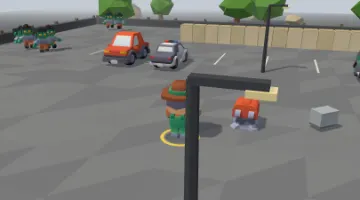
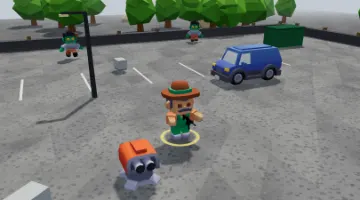
Dernier Rempart : des graphismes plus vivants (Lot 3)
- rendu tonal de cinéma (ACES) et ombres aux bords doux
- le sol : une texture de détail sans raccord (grains, grandes taches) sur les facettes
- le tir : un éclair au bout du canon (plus gros pour les pompes, fusils de précision
  et lanceurs ; rose pour les armes à énergie) et une lumière qui éclaire autour ;
  la traçante part du canon ; la tourelle a son éclair
- les impacts : des étincelles et des gouttes (au plus 10 impacts par image)
- les explosions : onde de choc au sol, fumée qui monte et grossit, braises, débris,
  flash de lumière
- un éclair ou un flash tout neuf reste visible au moins une image (même à 8 i/s)
- la qualité automatique : la résolution baisse si les images tardent, remonte si
  tout file ; les lumières d'effets sont retirées en graphismes économes
- la caméra de jeu un peu plus près ; vignettes des arènes refaites

Claude-Session: https://claude.ai/code/session_0198Qgb4Q8omdd1L3F2NjW4L

diff --git a/zombies/index.html b/zombies/index.html
@@ -4048,7 +4048,8 @@ const ZRENDU = (() => {
     try { renderer = new T.WebGLRenderer({ canvas, antialias: true, powerPreference: 'high-performance' }); }
     catch (e) { return null; }
     renderer.setPixelRatio(Math.min(window.devicePixelRatio || 1, qualite === 'eco' ? 1.25 : 2));
-    renderer.shadowMap.enabled = qualite !== 'eco'; renderer.shadowMap.type = T.PCFShadowMap;
+    renderer.shadowMap.enabled = qualite !== 'eco'; renderer.shadowMap.type = T.PCFSoftShadowMap; // (des ombres aux bords doux)
+    renderer.toneMapping = T.ACESFilmicToneMapping; renderer.toneMappingExposure = 1.22; // (un rendu tonal de cinéma : les lumières vives restent lisibles, les flashs ne brûlent pas l'image)
     const scene = new T.Scene();
     const camera = new T.PerspectiveCamera(38, 1, 0.5, 160);
     const hemi = new T.HemisphereLight('#FFFFFF', '#6E7F52', 1.15); scene.add(hemi);
@@ -4531,17 +4532,17 @@ const ZRENDU = (() => {
     const matTrace = new T.MeshBasicMaterial({ color: '#FFE89A', transparent: true, opacity: 0.9, depthWrite: false, blending: T.AdditiveBlending });
     const tracantes = []; for (let i = 0; i < MAX_TRACANTES; i++) { const m = new T.Mesh(BOITE, matTrace.clone()); m.visible = false; scene.add(m); tracantes.push({ m, t: 0 }); }
     let iTrace = 0;
-    function tracante(x, z, a, l, arme) {
+    function tracante(x, z, a, l, arme, y0) {
       const o = tracantes[iTrace]; iTrace = (iTrace + 1) % MAX_TRACANTES;
       const gros = arme === 'sniper' || arme === 'laser', ep = arme === 'laser' ? 0.11 : gros ? 0.07 : 0.045;
       o.t = gros ? 0.12 : 0.06; o.m.visible = true;
-      o.m.position.set(x + Math.cos(a) * l / 2, 1.0, z + Math.sin(a) * l / 2); o.m.rotation.set(0, -a, 0);
+      o.m.position.set(x + Math.cos(a) * l / 2, y0 != null ? (y0 + 1.0) / 2 : 1.0, z + Math.sin(a) * l / 2); o.m.rotation.set(0, -a, 0);
       o.m.scale.set(l, ep, ep); o.m.material.opacity = 0.95;
       o.m.material.color.set(COULEUR_TRACE[arme] || '#FFE89A');
     }
     // l'effet d'un tir, selon l'arme : traçante, rayon laser, cône de flammes ou de givre, éclair (lignes brisées), rien (roquette, scie : le projectile se voit)
     const COULEUR_TRACE = { tourelle: '#9AE6FF', laser: '#FF5C8A', sniper: '#FFE89A', arc: '#E8D2A6' };
-    function effetTir(e) {
+    function effetTir(e, bc) {
       const A = D.ARMES[e.cle];
       if (e.arme === 'flamme' || e.arme === 'cryo') {
         const feu = e.arme === 'flamme';
@@ -4551,6 +4552,7 @@ const ZRENDU = (() => {
       if (e.arme === 'tesla') { if (e.pts) eclair(e.pts); return; }
       if (e.arme === 'roquette' || e.arme === 'scie' || e.arme === 'acide') return;
       const cle = e.cle === 'tourelle' ? 'tourelle' : A && A.classe === 'laser' ? 'laser' : e.arme;
+      if (bc) { const fx = e.x + Math.cos(e.a) * e.l, fz = e.z + Math.sin(e.a) * e.l, l = Math.hypot(fx - bc.x, fz - bc.z); if (l > 0.3) { tracante(bc.x, bc.z, Math.atan2(fz - bc.z, fx - bc.x), l, cle, bc.y); return; } } // (depuis le bout du canon)
       tracante(e.x, e.z, e.a, e.l, cle);
     }
     // les éclairs : des segments brisés, en boîtes fines additives (les lignes WebGL n'ont qu'un pixel)
@@ -4593,7 +4595,43 @@ const ZRENDU = (() => {
     const geoBoum = new T.IcosahedronGeometry(1, 1);
     const boums = []; for (let i = 0; i < MAX_BOUMS; i++) { const m = new T.Mesh(geoBoum, matBoum.clone()); m.visible = false; scene.add(m); boums.push({ m, t: 0, r: 1 }); }
     let iBoum = 0;
-    function boum(x, z, r, petite) { const o = boums[iBoum]; iBoum = (iBoum + 1) % MAX_BOUMS; o.t = 0.45; o.r = r; o.m.position.set(x, 0.4, z); o.m.visible = true; secousse = Math.max(secousse, petite ? 0.08 : 0.35); }
+    function boum(x, z, r, petite) {
+      const o = boums[iBoum]; iBoum = (iBoum + 1) % MAX_BOUMS; o.t = 0.45; o.r = r; o.m.position.set(x, 0.4, z); o.m.visible = true; secousse = Math.max(secousse, petite ? 0.08 : 0.35);
+      // l'explosion en entier : l'onde de choc au sol, la fumée qui monte, des braises et des débris, un flash qui éclaire tout autour
+      onde(x, z, r * (petite ? 0.8 : 1.25));
+      for (let k = 0; k < (petite ? 2 : 7); k++) { const a = Math.random() * 6.28, d = Math.random() * r * 0.5; fumee(x + Math.cos(a) * d, 0.5 + Math.random() * 0.6, z + Math.sin(a) * d, r * (0.55 + Math.random() * 0.4), petite ? 0.9 : 1.6 + Math.random() * 0.8, k < 2 && !petite ? '#3A3430' : '#6E6862'); }
+      for (let k = 0; k < (petite ? 5 : 12); k++) { const a = Math.random() * 6.28, v = 3 + Math.random() * 5; particule(x, 0.6, z, Math.cos(a) * v, 3 + Math.random() * 6, Math.sin(a) * v, 0.5 + Math.random() * 0.5, 0.09, k % 3 ? '#FFB347' : '#FFE07A', 0.2); }
+      if (!petite) for (let k = 0; k < 7; k++) { const a = Math.random() * 6.28, v = 2 + Math.random() * 4; particule(x, 0.4, z, Math.cos(a) * v, 4 + Math.random() * 5, Math.sin(a) * v, 1.1 + Math.random() * 0.6, 0.13, '#2E2A26', 0.35); }
+      lumiere(x, 1.4, z, '#FF9A3A', petite ? 14 : 34, r * 4 + 6, 0.32);
+    }
+    // ─── les effets de la 3D (Lot 3) : éclairs au bout du canon et lumières, ondes de choc, fumée, étincelles ───
+    // une texture faite au pinceau dans un canvas : une étoile de feu (l'éclair du canon), un rond doux (la fumée)
+    function texture2D(dessin, n) { const c = document.createElement('canvas'); c.width = c.height = n || 64; dessin(c.getContext('2d'), c.width); const t = new T.CanvasTexture(c); if ('colorSpace' in t) t.colorSpace = T.SRGBColorSpace; return t; }
+    const texEclat = texture2D((g, n) => { const m = n / 2, gr = g.createRadialGradient(m, m, 0, m, m, m); gr.addColorStop(0, 'rgba(255,255,240,1)'); gr.addColorStop(0.25, 'rgba(255,220,130,.9)'); gr.addColorStop(1, 'rgba(255,140,40,0)'); g.fillStyle = gr; g.beginPath(); for (let k = 0; k < 16; k++) { const a = k / 16 * Math.PI * 2, r = k % 2 ? m * 0.32 : m; g.lineTo(m + Math.cos(a) * r, m + Math.sin(a) * r); } g.fill(); });
+    const texFumee = texture2D((g, n) => { const m = n / 2, gr = g.createRadialGradient(m, m, 0, m, m, m); gr.addColorStop(0, 'rgba(255,255,255,.9)'); gr.addColorStop(0.55, 'rgba(255,255,255,.45)'); gr.addColorStop(1, 'rgba(255,255,255,0)'); g.fillStyle = gr; g.fillRect(0, 0, n, n); });
+    const eclats = []; for (let i = 0; i < 10; i++) { const sp = new T.Sprite(new T.SpriteMaterial({ map: texEclat, color: '#FFE2A0', blending: T.AdditiveBlending, depthWrite: false, transparent: true, fog: false })); sp.visible = false; scene.add(sp); eclats.push({ sp, t: 0 }); }
+    let iEclat = 0;
+    function eclatBouche(p, taille, couleur) { const o = eclats[iEclat]; iEclat = (iEclat + 1) % eclats.length; o.sp.position.copy(p); const k = taille * (0.8 + Math.random() * 0.5); o.sp.scale.set(k, k, k); o.sp.material.rotation = Math.random() * 6.28; o.sp.material.color.set(couleur || '#FFE2A0'); o.sp.material.opacity = 1; o.t = 0.06; o.neuf = true; o.sp.visible = true; }
+    // des lumières en réserve (toujours dans la scène, éteintes : en ajouter recompilerait les matériaux) : le canon, l'explosion
+    const lumieres = []; for (let i = 0; i < 2; i++) { const l = new T.PointLight('#FFC870', 0, 8, 1.6); l.visible = qualite !== 'eco'; scene.add(l); lumieres.push({ l, t: 0, d: 1, i0: 0 }); } // (en économe : retirées des calculs de lumière)
+    let iLum = 0;
+    function lumiere(x, y, z, couleur, intensite, portee, duree) { if (qualite === 'eco') return; const o = lumieres[iLum]; iLum = (iLum + 1) % lumieres.length; o.l.position.set(x, y, z); o.l.color.set(couleur); o.l.distance = portee; o.i0 = intensite; o.l.intensity = intensite; o.t = o.d = duree; o.neuf = true; }
+    const fumees = []; for (let i = 0; i < 40; i++) { const sp = new T.Sprite(new T.SpriteMaterial({ map: texFumee, color: '#777', transparent: true, depthWrite: false, opacity: 0 })); sp.visible = false; scene.add(sp); fumees.push({ sp, t: 0, vie: 1, k: 1 }); }
+    let iFumee = 0;
+    function fumee(x, y, z, k, vie, couleur) { const o = fumees[iFumee]; iFumee = (iFumee + 1) % fumees.length; o.sp.position.set(x, y, z); o.k = k; o.t = 0; o.vie = vie; o.vx = (Math.random() - 0.5) * 0.6; o.vz = (Math.random() - 0.5) * 0.6; o.sp.material.color.set(couleur); o.sp.material.rotation = Math.random() * 6.28; o.sp.visible = true; }
+    const ondes = []; for (let i = 0; i < 6; i++) { const m = new T.Mesh(new T.RingGeometry(0.82, 1, 28).rotateX(-Math.PI / 2), new T.MeshBasicMaterial({ color: '#FFD08A', transparent: true, opacity: 0, depthWrite: false, blending: T.AdditiveBlending, fog: false })); m.visible = false; scene.add(m); ondes.push({ m, t: 0, r: 1 }); }
+    let iOnde = 0;
+    function onde(x, z, r) { const o = ondes[iOnde]; iOnde = (iOnde + 1) % ondes.length; o.m.position.set(x, 0.06, z); o.r = r; o.t = 0; o.m.visible = true; }
+    function majEffets(dt) {
+      // (un éclair ou un flash tout neuf est montré au moins une image entière, même quand les images sont lentes)
+      for (const o of eclats) if (o.sp.visible) { if (o.neuf) { o.neuf = false; continue; } o.t -= dt; o.sp.material.opacity = Math.max(0, o.t / 0.06); if (o.t <= 0) o.sp.visible = false; }
+      for (const o of lumieres) if (o.t > 0) { if (o.neuf) { o.neuf = false; continue; } o.t -= dt; o.l.intensity = o.t > 0 ? o.i0 * (o.t / o.d) : 0; }
+      for (const o of fumees) if (o.sp.visible) { o.t += dt; const u = o.t / o.vie; if (u >= 1) { o.sp.visible = false; continue; } o.sp.position.y += dt * 1.1 * (1 - u * 0.5); o.sp.position.x += o.vx * dt; o.sp.position.z += o.vz * dt; const k = o.k * (1 + u * 1.6); o.sp.scale.set(k, k, k); o.sp.material.opacity = 0.62 * (u < 0.12 ? u / 0.12 : 1 - (u - 0.12) / 0.88); o.sp.material.rotation += dt * 0.4; }
+      for (const o of ondes) if (o.m.visible) { o.t += dt; const u = o.t / 0.38; if (u >= 1) { o.m.visible = false; continue; } const k = o.r * (0.25 + u * 1.2); o.m.scale.set(k, 1, k); o.m.material.opacity = 0.85 * (1 - u); }
+    }
+    // le bout du canon d'un survivant (le modèle de son arme : sa demi-longueur devant son centre), en coordonnées du monde
+    const _bout = new T.Vector3();
+    function boutCanon(s) { if (!s || !s.blaster || !s.blaster.userData.long) return null; s.blaster.updateWorldMatrix(true, false); return s.blaster.localToWorld(_bout.set(0, 0, s.blaster.userData.long / 2)); }
     // les flaques (sang vert des zombies, acide des crachats, traces de brûlé) : un cercle instancié, en anneau
     const flaques = new T.InstancedMesh(new T.CircleGeometry(0.5, 9).rotateX(-Math.PI / 2), new T.MeshLambertMaterial({ color: '#FFFFFF', polygonOffset: true, polygonOffsetFactor: -2, polygonOffsetUnits: -2, depthWrite: false, transparent: true, opacity: 0.85 }), MAX_FLAQUES);
     flaques.frustumCulled = false; flaques.receiveShadow = true; flaques.count = 0; flaques.instanceMatrix.setUsage(T.DynamicDrawUsage); flaques.setColorAt(0, BLANC); scene.add(flaques);
@@ -4645,7 +4683,8 @@ const ZRENDU = (() => {
         for (let j = 0; j < 3; j++) { cc[(i + j) * 3] = tmp.r; cc[(i + j) * 3 + 1] = tmp.g; cc[(i + j) * 3 + 2] = tmp.b; }
       }
       gsol.setAttribute('color', new T.BufferAttribute(cc, 3)); gsol.computeVertexNormals();
-      const sol = new T.Mesh(gsol, new T.MeshLambertMaterial({ vertexColors: true })); sol.receiveShadow = true; scene.add(sol); enArene.push(sol);
+      texSol.repeat.set(cote / 6, cote / 6);
+      const sol = new T.Mesh(gsol, new T.MeshLambertMaterial({ vertexColors: true, map: texSol })); sol.receiveShadow = true; scene.add(sol); enArene.push(sol);
       // la bordure (une haie de bois et de pierre), les obstacles, et le paysage autour (arbres, rochers ; sans collision)
       const F = new Fab();
       const bordure = (x, z, w, d) => F.add(BOITE, A.bord, mat(x, 0.45, z, 0, w, 0.9, d), 0.06, 11);
@@ -4702,6 +4741,16 @@ const ZRENDU = (() => {
     let vit = 0, vitVoulu = 0, vitX = 0.5, vitY = 0.55, vitDist = 1, vitAz = Math.atan2(9.4, 3.2); // (vitAz : d'où la vitrine filme)
     const _cn = T ? new T.Vector3() : null, _cv = T ? new T.Vector3() : null, _vn = T ? new T.Vector3() : null, _vv = T ? new T.Vector3() : null;
     function vitrine(on, x, y, dist) { vitVoulu = on ? 1 : 0; if (x != null) vitX = x; if (y != null) vitY = y; if (dist != null) vitDist = dist; }
+    // la texture de détail du sol : des grains et de grandes taches douces (sans raccord visible : chaque tache est aussi dessinée de l'autre
+    // côté du bord), qui multiplie les couleurs des facettes
+    const texSol = (() => {
+      const n = 256, c = document.createElement('canvas'); c.width = c.height = n; const g = c.getContext('2d'); g.fillStyle = '#fff'; g.fillRect(0, 0, n, n);
+      let graine = 7; const rnd = () => (graine = (graine * 16807) % 2147483647) / 2147483647;
+      const partout = (f) => { for (const dx of [-n, 0, n]) for (const dy of [-n, 0, n]) f(dx, dy); };
+      for (let i = 0; i < 16; i++) { const x = rnd() * n, y = rnd() * n, r = 24 + rnd() * 44, fonce = rnd() < 0.55; partout((dx, dy) => { const gr = g.createRadialGradient(x + dx, y + dy, 0, x + dx, y + dy, r); gr.addColorStop(0, fonce ? 'rgba(0,0,0,.09)' : 'rgba(255,255,255,.1)'); gr.addColorStop(1, 'rgba(0,0,0,0)'); g.fillStyle = gr; g.fillRect(x + dx - r, y + dy - r, r * 2, r * 2); }); }
+      for (let i = 0; i < 2200; i++) { const v = (200 + rnd() * 55) | 0, x = rnd() * n, y = rnd() * n, r = 0.8 + rnd() * 2.6, e = 0.4 + rnd() * 0.6, a = rnd() * 3; g.fillStyle = `rgb(${v},${v},${v})`; partout((dx, dy) => { g.beginPath(); g.ellipse(x + dx, y + dy, r, r * e, a, 0, 7); g.fill(); }); }
+      const t = new T.CanvasTexture(c); t.wrapS = t.wrapT = T.RepeatWrapping; if ('colorSpace' in t) t.colorSpace = T.SRGBColorSpace; t.anisotropy = 4; return t;
+    })();
     const AUTOUR = { foret: 'sapins', neon: 'immeubles', volcan: 'roches', supermarche: 'murs', port: 'eau', plage: 'eau', cimetiere: 'sapins' };
     const HERBE = new Set(['jardin', 'ferme', 'cimetiere', 'foret']);
     const matLave = new T.MeshBasicMaterial({ color: '#FF6A1A' });
@@ -4710,7 +4759,7 @@ const ZRENDU = (() => {
       const tx = j.x + (j.vx || 0) * 0.25, tz = j.z + (j.vz || 0) * 0.25;
       if (!cam.init) { cam.x = tx; cam.z = tz; cam.init = true; }
       const k = 1 - Math.exp(-6 * dt); cam.x += (tx - cam.x) * k; cam.z += (tz - cam.z) * k;
-      const portrait = H > W; let haut = portrait ? 30 : 22, recul = portrait ? 12 : 12, fx = cam.x, fz = cam.z;
+      const portrait = H > W; let haut = portrait ? 30 : 20.5, recul = portrait ? 12 : 11.2, fx = cam.x, fz = cam.z; // (en paysage, un peu plus près qu'avant : 22 et 12)
       if (cine) { // plongée : la caméra descend vers le point, puis remonte (courbe en cloche)
         cine.t += dt; const u = Math.min(1, cine.t / cine.duree), w = Math.sin(u * Math.PI);
         fx = cam.x + (cine.x - cam.x) * w; fz = cam.z + (cine.z - cam.z) * w; haut -= 11 * w; recul -= 5 * w;
@@ -4735,12 +4784,19 @@ const ZRENDU = (() => {
 
     // ─── une image ───
     let derniereT = 0;
+    let impacts = 0;
     function image(jeu, idMoi, dt, evs) {
+      impacts = 0; ajusterQualite();
       if (!arene || arene !== jeu.A) charger(jeu);
       if (evs) for (const e of evs) {
         switch (e.t) {
           case 'tir': {
-            effetTir(e); const s = survivants.get(e.de);
+            const s = survivants.get(e.de), bc = boutCanon(s), A0 = D.ARMES[e.cle];
+            if (bc && e.arme !== 'flamme' && e.arme !== 'cryo' && e.arme !== 'tesla' && e.arme !== 'scie') { // (l'éclair du canon, et sa lumière une fois sur deux)
+              const gros = A0 && (A0.famille === 'pompe' || A0.famille === 'sniper' || A0.famille === 'lanceur'), laser = A0 && A0.famille === 'energie';
+              eclatBouche(bc, gros ? 1.2 : 0.8, laser ? '#FF9AC0' : '#FFE2A0'); if (gros || Math.random() < 0.5) lumiere(bc.x, bc.y, bc.z, laser ? '#FF6FA0' : '#FFC870', gros ? 9 : 5, 6, 0.07);
+            } else if (e.cle === 'tourelle') eclatBouche(_bout.set(e.x + Math.cos(e.a) * 0.6, 1.05, e.z + Math.sin(e.a) * 0.6), 0.55, '#BFEFFF');
+            effetTir(e, bc);
             if (s) { s.recul = 1; if (!e.b) { const a = e.a + Math.PI / 2 * (Math.random() < 0.5 ? 1 : -1) * 0.9; particule(e.x, 1.0, e.z, Math.cos(a) * 2.5, 2.5 + Math.random() * 1.5, Math.sin(a) * 2.5, 1.3, 0.07, '#E0B040', 0.4); } } // une douille
             break;
           }
@@ -4750,7 +4806,10 @@ const ZRENDU = (() => {
             if (KZ && !D.ZOMBIES[e.type].boss && (e.fort || Math.random() < 0.45)) eclater(e); // en morceaux
             else { corps.push({ type: e.type, x: e.x, z: e.z, a: e.a || 0, t: 0 }); if (corps.length > MAX_CORPS) corps.shift(); }
             break;
-          case 'touche': if (Math.random() < 0.25) flaque(e.x + (Math.random() - 0.5) * 0.6, e.z + (Math.random() - 0.5) * 0.6, 0.35, '#6F9A38'); break;
+          case 'touche':
+            if (Math.random() < 0.25) flaque(e.x + (Math.random() - 0.5) * 0.6, e.z + (Math.random() - 0.5) * 0.6, 0.35, '#6F9A38');
+            if (!e.petit && impacts++ < 10) { for (let k = 0; k < (e.crit ? 5 : 2); k++) particule(e.x, 1.0, e.z, (Math.random() - 0.5) * 5, 1.5 + Math.random() * 2.5, (Math.random() - 0.5) * 5, 0.22, 0.06, k % 2 ? '#FFF3C0' : '#FFD25A', 0); particule(e.x, 1.0, e.z, (Math.random() - 0.5) * 3, 2 + Math.random() * 2, (Math.random() - 0.5) * 3, 0.5, 0.09, '#6F9A38', 0.1); } // (étincelles et gouttes ; au plus 10 impacts par image)
+            break;
           case 'boum': boum(e.x, e.z, e.r, e.petite); if (!e.petite) flaque(e.x, e.z, e.r * 0.55, '#4A4A3A'); break;
           case 'flaque': flaque(e.x, e.z, 0.7, '#A6D63A'); break;
           case 'blesse': secousse = Math.max(secousse, 0.18); break;
@@ -4782,6 +4841,7 @@ const ZRENDU = (() => {
       majAlertes(dt);
       majFlaques(dt);
       majParticules(dt);
+      majEffets(dt);
       for (const o of tracantes) if (o.m.visible) { o.t -= dt; o.m.material.opacity = Math.max(0, o.t / 0.06); if (o.t <= 0) o.m.visible = false; }
       for (const o of segs) if (o.m.visible) { o.t -= dt; o.m.material.opacity = Math.max(0, o.t / o.d); if (o.t <= 0) o.m.visible = false; }
       for (const o of boums) if (o.m.visible) { o.t -= dt; const k = 1 - o.t / 0.45; o.m.scale.setScalar(o.r * (0.3 + k * 0.9)); o.m.material.opacity = Math.max(0, 0.9 * (1 - k)); o.m.material.color.set(k < 0.3 ? '#FFE07A' : '#FF8A3A'); if (o.t <= 0) o.m.visible = false; }
@@ -4789,16 +4849,27 @@ const ZRENDU = (() => {
       renderer.render(scene, camera);
       derniereT = performance.now();
     }
+    // la qualité automatique : si les images tardent (plus de 26 ms en moyenne sur 2 s), la résolution baisse d'un cran (jusqu'à 1 pixel par
+    // point) ; si tout file (moins de 17 ms), elle remonte, jusqu'à ce que permet l'écran (le réglage « économes » reste prioritaire)
+    const auto = { acc: 0, n: 0, der: 0, ratio: null };
+    function ajusterQualite() {
+      const t = performance.now(), ms = auto.der ? Math.min(100, t - auto.der) : 0; auto.der = t; if (!ms) return;
+      auto.acc += ms; auto.n++; if (auto.acc < 2000) return;
+      const moy = auto.acc / auto.n; auto.acc = 0; auto.n = 0; if (qualite === 'eco') return;
+      const max = Math.min(window.devicePixelRatio || 1, 2); if (auto.ratio == null) auto.ratio = max;
+      const r = moy > 26 ? Math.max(1, auto.ratio - 0.25) : moy < 17 ? Math.min(max, auto.ratio + 0.25) : auto.ratio;
+      if (r !== auto.ratio) { auto.ratio = r; renderer.setPixelRatio(r); renderer.setSize(W, H, false); }
+    }
     function taille(w, h) { W = Math.max(1, w); H = Math.max(1, h); renderer.setSize(W, H, false); camera.aspect = W / H; camera.fov = H > W ? 52 : 40; camera.updateProjectionMatrix(); }
     function regler(q) {
       qualite = q === 'eco' ? 'eco' : 'haute';
       renderer.setPixelRatio(Math.min(window.devicePixelRatio || 1, qualite === 'eco' ? 1.25 : 2)); renderer.setSize(W, H, false);
-      renderer.shadowMap.enabled = qualite !== 'eco'; soleil.castShadow = qualite !== 'eco';
+      renderer.shadowMap.enabled = qualite !== 'eco'; soleil.castShadow = qualite !== 'eco'; for (const o of lumieres) o.l.visible = qualite !== 'eco';
       scene.traverse((o) => { if (o.material) { const l = Array.isArray(o.material) ? o.material : [o.material]; for (const m of l) m.needsUpdate = true; } });
     }
     const _p = T ? new T.Vector3() : null;
     function ecranDe(x, z, y) { _p.set(x, y || 0, z).project(camera); return [(_p.x + 1) / 2 * W, (1 - _p.y) / 2 * H]; }
-    function stats() { const i = renderer.info; return { webgl: true, calls: i.render.calls, triangles: i.render.triangles, geometries: i.memory.geometries, qualite, derniere: derniereT, modeles: MOD ? MOD.etat : 'absent', horde: KZ ? 'kenney' : 'faite-main', boss: [...bossVus.values()].map((b) => b.type), survivant: [...survivants.values()].some((x) => x.modele) ? 'kenney' : 'fait-main', defenses: [...defs.values()].filter((r) => r.modele).length, morceaux: morceaux.length, particules: particules.length, cinema: !!cine, armes: MOD ? MOD.etatArmes : 'absent', tenues: [...survivants.values()].filter((x) => x.blaster).map((x) => x.armeId) }; }
+    function stats() { const i = renderer.info; return { ratio: renderer.getPixelRatio(), webgl: true, calls: i.render.calls, triangles: i.render.triangles, geometries: i.memory.geometries, qualite, derniere: derniereT, modeles: MOD ? MOD.etat : 'absent', horde: KZ ? 'kenney' : 'faite-main', boss: [...bossVus.values()].map((b) => b.type), survivant: [...survivants.values()].some((x) => x.modele) ? 'kenney' : 'fait-main', defenses: [...defs.values()].filter((r) => r.modele).length, morceaux: morceaux.length, particules: particules.length, cinema: !!cine, armes: MOD ? MOD.etatArmes : 'absent', tenues: [...survivants.values()].filter((x) => x.blaster).map((x) => x.armeId) }; }
     // les modèles 3D arrivent : la horde passe en Kenney, le survivant, les défenses et l'arène (ses voitures) sont refaits avec eux
     if (MOD) MOD.charger().then((ok) => {
       if (!ok) return;

diff --git a/src-zombies/rendu.js b/src-zombies/rendu.js
@@ -243,7 +243,8 @@ const ZRENDU = (() => {
     try { renderer = new T.WebGLRenderer({ canvas, antialias: true, powerPreference: 'high-performance' }); }
     catch (e) { return null; }
     renderer.setPixelRatio(Math.min(window.devicePixelRatio || 1, qualite === 'eco' ? 1.25 : 2));
-    renderer.shadowMap.enabled = qualite !== 'eco'; renderer.shadowMap.type = T.PCFShadowMap;
+    renderer.shadowMap.enabled = qualite !== 'eco'; renderer.shadowMap.type = T.PCFSoftShadowMap; // (des ombres aux bords doux)
+    renderer.toneMapping = T.ACESFilmicToneMapping; renderer.toneMappingExposure = 1.22; // (un rendu tonal de cinéma : les lumières vives restent lisibles, les flashs ne brûlent pas l'image)
     const scene = new T.Scene();
     const camera = new T.PerspectiveCamera(38, 1, 0.5, 160);
     const hemi = new T.HemisphereLight('#FFFFFF', '#6E7F52', 1.15); scene.add(hemi);
@@ -726,17 +727,17 @@ const ZRENDU = (() => {
     const matTrace = new T.MeshBasicMaterial({ color: '#FFE89A', transparent: true, opacity: 0.9, depthWrite: false, blending: T.AdditiveBlending });
     const tracantes = []; for (let i = 0; i < MAX_TRACANTES; i++) { const m = new T.Mesh(BOITE, matTrace.clone()); m.visible = false; scene.add(m); tracantes.push({ m, t: 0 }); }
     let iTrace = 0;
-    function tracante(x, z, a, l, arme) {
+    function tracante(x, z, a, l, arme, y0) {
       const o = tracantes[iTrace]; iTrace = (iTrace + 1) % MAX_TRACANTES;
       const gros = arme === 'sniper' || arme === 'laser', ep = arme === 'laser' ? 0.11 : gros ? 0.07 : 0.045;
       o.t = gros ? 0.12 : 0.06; o.m.visible = true;
-      o.m.position.set(x + Math.cos(a) * l / 2, 1.0, z + Math.sin(a) * l / 2); o.m.rotation.set(0, -a, 0);
+      o.m.position.set(x + Math.cos(a) * l / 2, y0 != null ? (y0 + 1.0) / 2 : 1.0, z + Math.sin(a) * l / 2); o.m.rotation.set(0, -a, 0);
       o.m.scale.set(l, ep, ep); o.m.material.opacity = 0.95;
       o.m.material.color.set(COULEUR_TRACE[arme] || '#FFE89A');
     }
     // l'effet d'un tir, selon l'arme : traçante, rayon laser, cône de flammes ou de givre, éclair (lignes brisées), rien (roquette, scie : le projectile se voit)
     const COULEUR_TRACE = { tourelle: '#9AE6FF', laser: '#FF5C8A', sniper: '#FFE89A', arc: '#E8D2A6' };
-    function effetTir(e) {
+    function effetTir(e, bc) {
       const A = D.ARMES[e.cle];
       if (e.arme === 'flamme' || e.arme === 'cryo') {
         const feu = e.arme === 'flamme';
@@ -746,6 +747,7 @@ const ZRENDU = (() => {
       if (e.arme === 'tesla') { if (e.pts) eclair(e.pts); return; }
       if (e.arme === 'roquette' || e.arme === 'scie' || e.arme === 'acide') return;
       const cle = e.cle === 'tourelle' ? 'tourelle' : A && A.classe === 'laser' ? 'laser' : e.arme;
+      if (bc) { const fx = e.x + Math.cos(e.a) * e.l, fz = e.z + Math.sin(e.a) * e.l, l = Math.hypot(fx - bc.x, fz - bc.z); if (l > 0.3) { tracante(bc.x, bc.z, Math.atan2(fz - bc.z, fx - bc.x), l, cle, bc.y); return; } } // (depuis le bout du canon)
       tracante(e.x, e.z, e.a, e.l, cle);
     }
     // les éclairs : des segments brisés, en boîtes fines additives (les lignes WebGL n'ont qu'un pixel)
@@ -788,7 +790,43 @@ const ZRENDU = (() => {
     const geoBoum = new T.IcosahedronGeometry(1, 1);
     const boums = []; for (let i = 0; i < MAX_BOUMS; i++) { const m = new T.Mesh(geoBoum, matBoum.clone()); m.visible = false; scene.add(m); boums.push({ m, t: 0, r: 1 }); }
     let iBoum = 0;
-    function boum(x, z, r, petite) { const o = boums[iBoum]; iBoum = (iBoum + 1) % MAX_BOUMS; o.t = 0.45; o.r = r; o.m.position.set(x, 0.4, z); o.m.visible = true; secousse = Math.max(secousse, petite ? 0.08 : 0.35); }
+    function boum(x, z, r, petite) {
+      const o = boums[iBoum]; iBoum = (iBoum + 1) % MAX_BOUMS; o.t = 0.45; o.r = r; o.m.position.set(x, 0.4, z); o.m.visible = true; secousse = Math.max(secousse, petite ? 0.08 : 0.35);
+      // l'explosion en entier : l'onde de choc au sol, la fumée qui monte, des braises et des débris, un flash qui éclaire tout autour
+      onde(x, z, r * (petite ? 0.8 : 1.25));
+      for (let k = 0; k < (petite ? 2 : 7); k++) { const a = Math.random() * 6.28, d = Math.random() * r * 0.5; fumee(x + Math.cos(a) * d, 0.5 + Math.random() * 0.6, z + Math.sin(a) * d, r * (0.55 + Math.random() * 0.4), petite ? 0.9 : 1.6 + Math.random() * 0.8, k < 2 && !petite ? '#3A3430' : '#6E6862'); }
+      for (let k = 0; k < (petite ? 5 : 12); k++) { const a = Math.random() * 6.28, v = 3 + Math.random() * 5; particule(x, 0.6, z, Math.cos(a) * v, 3 + Math.random() * 6, Math.sin(a) * v, 0.5 + Math.random() * 0.5, 0.09, k % 3 ? '#FFB347' : '#FFE07A', 0.2); }
+      if (!petite) for (let k = 0; k < 7; k++) { const a = Math.random() * 6.28, v = 2 + Math.random() * 4; particule(x, 0.4, z, Math.cos(a) * v, 4 + Math.random() * 5, Math.sin(a) * v, 1.1 + Math.random() * 0.6, 0.13, '#2E2A26', 0.35); }
+      lumiere(x, 1.4, z, '#FF9A3A', petite ? 14 : 34, r * 4 + 6, 0.32);
+    }
+    // ─── les effets de la 3D (Lot 3) : éclairs au bout du canon et lumières, ondes de choc, fumée, étincelles ───
+    // une texture faite au pinceau dans un canvas : une étoile de feu (l'éclair du canon), un rond doux (la fumée)
+    function texture2D(dessin, n) { const c = document.createElement('canvas'); c.width = c.height = n || 64; dessin(c.getContext('2d'), c.width); const t = new T.CanvasTexture(c); if ('colorSpace' in t) t.colorSpace = T.SRGBColorSpace; return t; }
+    const texEclat = texture2D((g, n) => { const m = n / 2, gr = g.createRadialGradient(m, m, 0, m, m, m); gr.addColorStop(0, 'rgba(255,255,240,1)'); gr.addColorStop(0.25, 'rgba(255,220,130,.9)'); gr.addColorStop(1, 'rgba(255,140,40,0)'); g.fillStyle = gr; g.beginPath(); for (let k = 0; k < 16; k++) { const a = k / 16 * Math.PI * 2, r = k % 2 ? m * 0.32 : m; g.lineTo(m + Math.cos(a) * r, m + Math.sin(a) * r); } g.fill(); });
+    const texFumee = texture2D((g, n) => { const m = n / 2, gr = g.createRadialGradient(m, m, 0, m, m, m); gr.addColorStop(0, 'rgba(255,255,255,.9)'); gr.addColorStop(0.55, 'rgba(255,255,255,.45)'); gr.addColorStop(1, 'rgba(255,255,255,0)'); g.fillStyle = gr; g.fillRect(0, 0, n, n); });
+    const eclats = []; for (let i = 0; i < 10; i++) { const sp = new T.Sprite(new T.SpriteMaterial({ map: texEclat, color: '#FFE2A0', blending: T.AdditiveBlending, depthWrite: false, transparent: true, fog: false })); sp.visible = false; scene.add(sp); eclats.push({ sp, t: 0 }); }
+    let iEclat = 0;
+    function eclatBouche(p, taille, couleur) { const o = eclats[iEclat]; iEclat = (iEclat + 1) % eclats.length; o.sp.position.copy(p); const k = taille * (0.8 + Math.random() * 0.5); o.sp.scale.set(k, k, k); o.sp.material.rotation = Math.random() * 6.28; o.sp.material.color.set(couleur || '#FFE2A0'); o.sp.material.opacity = 1; o.t = 0.06; o.neuf = true; o.sp.visible = true; }
+    // des lumières en réserve (toujours dans la scène, éteintes : en ajouter recompilerait les matériaux) : le canon, l'explosion
+    const lumieres = []; for (let i = 0; i < 2; i++) { const l = new T.PointLight('#FFC870', 0, 8, 1.6); l.visible = qualite !== 'eco'; scene.add(l); lumieres.push({ l, t: 0, d: 1, i0: 0 }); } // (en économe : retirées des calculs de lumière)
+    let iLum = 0;
+    function lumiere(x, y, z, couleur, intensite, portee, duree) { if (qualite === 'eco') return; const o = lumieres[iLum]; iLum = (iLum + 1) % lumieres.length; o.l.position.set(x, y, z); o.l.color.set(couleur); o.l.distance = portee; o.i0 = intensite; o.l.intensity = intensite; o.t = o.d = duree; o.neuf = true; }
+    const fumees = []; for (let i = 0; i < 40; i++) { const sp = new T.Sprite(new T.SpriteMaterial({ map: texFumee, color: '#777', transparent: true, depthWrite: false, opacity: 0 })); sp.visible = false; scene.add(sp); fumees.push({ sp, t: 0, vie: 1, k: 1 }); }
+    let iFumee = 0;
+    function fumee(x, y, z, k, vie, couleur) { const o = fumees[iFumee]; iFumee = (iFumee + 1) % fumees.length; o.sp.position.set(x, y, z); o.k = k; o.t = 0; o.vie = vie; o.vx = (Math.random() - 0.5) * 0.6; o.vz = (Math.random() - 0.5) * 0.6; o.sp.material.color.set(couleur); o.sp.material.rotation = Math.random() * 6.28; o.sp.visible = true; }
+    const ondes = []; for (let i = 0; i < 6; i++) { const m = new T.Mesh(new T.RingGeometry(0.82, 1, 28).rotateX(-Math.PI / 2), new T.MeshBasicMaterial({ color: '#FFD08A', transparent: true, opacity: 0, depthWrite: false, blending: T.AdditiveBlending, fog: false })); m.visible = false; scene.add(m); ondes.push({ m, t: 0, r: 1 }); }
+    let iOnde = 0;
+    function onde(x, z, r) { const o = ondes[iOnde]; iOnde = (iOnde + 1) % ondes.length; o.m.position.set(x, 0.06, z); o.r = r; o.t = 0; o.m.visible = true; }
+    function majEffets(dt) {
+      // (un éclair ou un flash tout neuf est montré au moins une image entière, même quand les images sont lentes)
+      for (const o of eclats) if (o.sp.visible) { if (o.neuf) { o.neuf = false; continue; } o.t -= dt; o.sp.material.opacity = Math.max(0, o.t / 0.06); if (o.t <= 0) o.sp.visible = false; }
+      for (const o of lumieres) if (o.t > 0) { if (o.neuf) { o.neuf = false; continue; } o.t -= dt; o.l.intensity = o.t > 0 ? o.i0 * (o.t / o.d) : 0; }
+      for (const o of fumees) if (o.sp.visible) { o.t += dt; const u = o.t / o.vie; if (u >= 1) { o.sp.visible = false; continue; } o.sp.position.y += dt * 1.1 * (1 - u * 0.5); o.sp.position.x += o.vx * dt; o.sp.position.z += o.vz * dt; const k = o.k * (1 + u * 1.6); o.sp.scale.set(k, k, k); o.sp.material.opacity = 0.62 * (u < 0.12 ? u / 0.12 : 1 - (u - 0.12) / 0.88); o.sp.material.rotation += dt * 0.4; }
+      for (const o of ondes) if (o.m.visible) { o.t += dt; const u = o.t / 0.38; if (u >= 1) { o.m.visible = false; continue; } const k = o.r * (0.25 + u * 1.2); o.m.scale.set(k, 1, k); o.m.material.opacity = 0.85 * (1 - u); }
+    }
+    // le bout du canon d'un survivant (le modèle de son arme : sa demi-longueur devant son centre), en coordonnées du monde
+    const _bout = new T.Vector3();
+    function boutCanon(s) { if (!s || !s.blaster || !s.blaster.userData.long) return null; s.blaster.updateWorldMatrix(true, false); return s.blaster.localToWorld(_bout.set(0, 0, s.blaster.userData.long / 2)); }
     // les flaques (sang vert des zombies, acide des crachats, traces de brûlé) : un cercle instancié, en anneau
     const flaques = new T.InstancedMesh(new T.CircleGeometry(0.5, 9).rotateX(-Math.PI / 2), new T.MeshLambertMaterial({ color: '#FFFFFF', polygonOffset: true, polygonOffsetFactor: -2, polygonOffsetUnits: -2, depthWrite: false, transparent: true, opacity: 0.85 }), MAX_FLAQUES);
     flaques.frustumCulled = false; flaques.receiveShadow = true; flaques.count = 0; flaques.instanceMatrix.setUsage(T.DynamicDrawUsage); flaques.setColorAt(0, BLANC); scene.add(flaques);
@@ -840,7 +878,8 @@ const ZRENDU = (() => {
         for (let j = 0; j < 3; j++) { cc[(i + j) * 3] = tmp.r; cc[(i + j) * 3 + 1] = tmp.g; cc[(i + j) * 3 + 2] = tmp.b; }
       }
       gsol.setAttribute('color', new T.BufferAttribute(cc, 3)); gsol.computeVertexNormals();
-      const sol = new T.Mesh(gsol, new T.MeshLambertMaterial({ vertexColors: true })); sol.receiveShadow = true; scene.add(sol); enArene.push(sol);
+      texSol.repeat.set(cote / 6, cote / 6);
+      const sol = new T.Mesh(gsol, new T.MeshLambertMaterial({ vertexColors: true, map: texSol })); sol.receiveShadow = true; scene.add(sol); enArene.push(sol);
       // la bordure (une haie de bois et de pierre), les obstacles, et le paysage autour (arbres, rochers ; sans collision)
       const F = new Fab();
       const bordure = (x, z, w, d) => F.add(BOITE, A.bord, mat(x, 0.45, z, 0, w, 0.9, d), 0.06, 11);
@@ -897,6 +936,16 @@ const ZRENDU = (() => {
     let vit = 0, vitVoulu = 0, vitX = 0.5, vitY = 0.55, vitDist = 1, vitAz = Math.atan2(9.4, 3.2); // (vitAz : d'où la vitrine filme)
     const _cn = T ? new T.Vector3() : null, _cv = T ? new T.Vector3() : null, _vn = T ? new T.Vector3() : null, _vv = T ? new T.Vector3() : null;
     function vitrine(on, x, y, dist) { vitVoulu = on ? 1 : 0; if (x != null) vitX = x; if (y != null) vitY = y; if (dist != null) vitDist = dist; }
+    // la texture de détail du sol : des grains et de grandes taches douces (sans raccord visible : chaque tache est aussi dessinée de l'autre
+    // côté du bord), qui multiplie les couleurs des facettes
+    const texSol = (() => {
+      const n = 256, c = document.createElement('canvas'); c.width = c.height = n; const g = c.getContext('2d'); g.fillStyle = '#fff'; g.fillRect(0, 0, n, n);
+      let graine = 7; const rnd = () => (graine = (graine * 16807) % 2147483647) / 2147483647;
+      const partout = (f) => { for (const dx of [-n, 0, n]) for (const dy of [-n, 0, n]) f(dx, dy); };
+      for (let i = 0; i < 16; i++) { const x = rnd() * n, y = rnd() * n, r = 24 + rnd() * 44, fonce = rnd() < 0.55; partout((dx, dy) => { const gr = g.createRadialGradient(x + dx, y + dy, 0, x + dx, y + dy, r); gr.addColorStop(0, fonce ? 'rgba(0,0,0,.09)' : 'rgba(255,255,255,.1)'); gr.addColorStop(1, 'rgba(0,0,0,0)'); g.fillStyle = gr; g.fillRect(x + dx - r, y + dy - r, r * 2, r * 2); }); }
+      for (let i = 0; i < 2200; i++) { const v = (200 + rnd() * 55) | 0, x = rnd() * n, y = rnd() * n, r = 0.8 + rnd() * 2.6, e = 0.4 + rnd() * 0.6, a = rnd() * 3; g.fillStyle = `rgb(${v},${v},${v})`; partout((dx, dy) => { g.beginPath(); g.ellipse(x + dx, y + dy, r, r * e, a, 0, 7); g.fill(); }); }
+      const t = new T.CanvasTexture(c); t.wrapS = t.wrapT = T.RepeatWrapping; if ('colorSpace' in t) t.colorSpace = T.SRGBColorSpace; t.anisotropy = 4; return t;
+    })();
     const AUTOUR = { foret: 'sapins', neon: 'immeubles', volcan: 'roches', supermarche: 'murs', port: 'eau', plage: 'eau', cimetiere: 'sapins' };
     const HERBE = new Set(['jardin', 'ferme', 'cimetiere', 'foret']);
     const matLave = new T.MeshBasicMaterial({ color: '#FF6A1A' });
@@ -905,7 +954,7 @@ const ZRENDU = (() => {
       const tx = j.x + (j.vx || 0) * 0.25, tz = j.z + (j.vz || 0) * 0.25;
       if (!cam.init) { cam.x = tx; cam.z = tz; cam.init = true; }
       const k = 1 - Math.exp(-6 * dt); cam.x += (tx - cam.x) * k; cam.z += (tz - cam.z) * k;
-      const portrait = H > W; let haut = portrait ? 30 : 22, recul = portrait ? 12 : 12, fx = cam.x, fz = cam.z;
+      const portrait = H > W; let haut = portrait ? 30 : 20.5, recul = portrait ? 12 : 11.2, fx = cam.x, fz = cam.z; // (en paysage, un peu plus près qu'avant : 22 et 12)
       if (cine) { // plongée : la caméra descend vers le point, puis remonte (courbe en cloche)
         cine.t += dt; const u = Math.min(1, cine.t / cine.duree), w = Math.sin(u * Math.PI);
         fx = cam.x + (cine.x - cam.x) * w; fz = cam.z + (cine.z - cam.z) * w; haut -= 11 * w; recul -= 5 * w;
@@ -930,12 +979,19 @@ const ZRENDU = (() => {
 
     // ─── une image ───
     let derniereT = 0;
+    let impacts = 0;
     function image(jeu, idMoi, dt, evs) {
+      impacts = 0; ajusterQualite();
       if (!arene || arene !== jeu.A) charger(jeu);
       if (evs) for (const e of evs) {
         switch (e.t) {
           case 'tir': {
-            effetTir(e); const s = survivants.get(e.de);
+            const s = survivants.get(e.de), bc = boutCanon(s), A0 = D.ARMES[e.cle];
+            if (bc && e.arme !== 'flamme' && e.arme !== 'cryo' && e.arme !== 'tesla' && e.arme !== 'scie') { // (l'éclair du canon, et sa lumière une fois sur deux)
+              const gros = A0 && (A0.famille === 'pompe' || A0.famille === 'sniper' || A0.famille === 'lanceur'), laser = A0 && A0.famille === 'energie';
+              eclatBouche(bc, gros ? 1.2 : 0.8, laser ? '#FF9AC0' : '#FFE2A0'); if (gros || Math.random() < 0.5) lumiere(bc.x, bc.y, bc.z, laser ? '#FF6FA0' : '#FFC870', gros ? 9 : 5, 6, 0.07);
+            } else if (e.cle === 'tourelle') eclatBouche(_bout.set(e.x + Math.cos(e.a) * 0.6, 1.05, e.z + Math.sin(e.a) * 0.6), 0.55, '#BFEFFF');
+            effetTir(e, bc);
             if (s) { s.recul = 1; if (!e.b) { const a = e.a + Math.PI / 2 * (Math.random() < 0.5 ? 1 : -1) * 0.9; particule(e.x, 1.0, e.z, Math.cos(a) * 2.5, 2.5 + Math.random() * 1.5, Math.sin(a) * 2.5, 1.3, 0.07, '#E0B040', 0.4); } } // une douille
             break;
           }
@@ -945,7 +1001,10 @@ const ZRENDU = (() => {
             if (KZ && !D.ZOMBIES[e.type].boss && (e.fort || Math.random() < 0.45)) eclater(e); // en morceaux
             else { corps.push({ type: e.type, x: e.x, z: e.z, a: e.a || 0, t: 0 }); if (corps.length > MAX_CORPS) corps.shift(); }
             break;
-          case 'touche': if (Math.random() < 0.25) flaque(e.x + (Math.random() - 0.5) * 0.6, e.z + (Math.random() - 0.5) * 0.6, 0.35, '#6F9A38'); break;
+          case 'touche':
+            if (Math.random() < 0.25) flaque(e.x + (Math.random() - 0.5) * 0.6, e.z + (Math.random() - 0.5) * 0.6, 0.35, '#6F9A38');
+            if (!e.petit && impacts++ < 10) { for (let k = 0; k < (e.crit ? 5 : 2); k++) particule(e.x, 1.0, e.z, (Math.random() - 0.5) * 5, 1.5 + Math.random() * 2.5, (Math.random() - 0.5) * 5, 0.22, 0.06, k % 2 ? '#FFF3C0' : '#FFD25A', 0); particule(e.x, 1.0, e.z, (Math.random() - 0.5) * 3, 2 + Math.random() * 2, (Math.random() - 0.5) * 3, 0.5, 0.09, '#6F9A38', 0.1); } // (étincelles et gouttes ; au plus 10 impacts par image)
+            break;
           case 'boum': boum(e.x, e.z, e.r, e.petite); if (!e.petite) flaque(e.x, e.z, e.r * 0.55, '#4A4A3A'); break;
           case 'flaque': flaque(e.x, e.z, 0.7, '#A6D63A'); break;
           case 'blesse': secousse = Math.max(secousse, 0.18); break;
@@ -977,6 +1036,7 @@ const ZRENDU = (() => {
       majAlertes(dt);
       majFlaques(dt);
       majParticules(dt);
+      majEffets(dt);
       for (const o of tracantes) if (o.m.visible) { o.t -= dt; o.m.material.opacity = Math.max(0, o.t / 0.06); if (o.t <= 0) o.m.visible = false; }
       for (const o of segs) if (o.m.visible) { o.t -= dt; o.m.material.opacity = Math.max(0, o.t / o.d); if (o.t <= 0) o.m.visible = false; }
       for (const o of boums) if (o.m.visible) { o.t -= dt; const k = 1 - o.t / 0.45; o.m.scale.setScalar(o.r * (0.3 + k * 0.9)); o.m.material.opacity = Math.max(0, 0.9 * (1 - k)); o.m.material.color.set(k < 0.3 ? '#FFE07A' : '#FF8A3A'); if (o.t <= 0) o.m.visible = false; }
@@ -984,16 +1044,27 @@ const ZRENDU = (() => {
       renderer.render(scene, camera);
       derniereT = performance.now();
     }
+    // la qualité automatique : si les images tardent (plus de 26 ms en moyenne sur 2 s), la résolution baisse d'un cran (jusqu'à 1 pixel par
+    // point) ; si tout file (moins de 17 ms), elle remonte, jusqu'à ce que permet l'écran (le réglage « économes » reste prioritaire)
+    const auto = { acc: 0, n: 0, der: 0, ratio: null };
+    function ajusterQualite() {
+      const t = performance.now(), ms = auto.der ? Math.min(100, t - auto.der) : 0; auto.der = t; if (!ms) return;
+      auto.acc += ms; auto.n++; if (auto.acc < 2000) return;
+      const moy = auto.acc / auto.n; auto.acc = 0; auto.n = 0; if (qualite === 'eco') return;
+      const max = Math.min(window.devicePixelRatio || 1, 2); if (auto.ratio == null) auto.ratio = max;
+      const r = moy > 26 ? Math.max(1, auto.ratio - 0.25) : moy < 17 ? Math.min(max, auto.ratio + 0.25) : auto.ratio;
+      if (r !== auto.ratio) { auto.ratio = r; renderer.setPixelRatio(r); renderer.setSize(W, H, false); }
+    }
     function taille(w, h) { W = Math.max(1, w); H = Math.max(1, h); renderer.setSize(W, H, false); camera.aspect = W / H; camera.fov = H > W ? 52 : 40; camera.updateProjectionMatrix(); }
     function regler(q) {
       qualite = q === 'eco' ? 'eco' : 'haute';
       renderer.setPixelRatio(Math.min(window.devicePixelRatio || 1, qualite === 'eco' ? 1.25 : 2)); renderer.setSize(W, H, false);
-      renderer.shadowMap.enabled = qualite !== 'eco'; soleil.castShadow = qualite !== 'eco';
+      renderer.shadowMap.enabled = qualite !== 'eco'; soleil.castShadow = qualite !== 'eco'; for (const o of lumieres) o.l.visible = qualite !== 'eco';
       scene.traverse((o) => { if (o.material) { const l = Array.isArray(o.material) ? o.material : [o.material]; for (const m of l) m.needsUpdate = true; } });
     }
     const _p = T ? new T.Vector3() : null;
     function ecranDe(x, z, y) { _p.set(x, y || 0, z).project(camera); return [(_p.x + 1) / 2 * W, (1 - _p.y) / 2 * H]; }
-    function stats() { const i = renderer.info; return { webgl: true, calls: i.render.calls, triangles: i.render.triangles, geometries: i.memory.geometries, qualite, derniere: derniereT, modeles: MOD ? MOD.etat : 'absent', horde: KZ ? 'kenney' : 'faite-main', boss: [...bossVus.values()].map((b) => b.type), survivant: [...survivants.values()].some((x) => x.modele) ? 'kenney' : 'fait-main', defenses: [...defs.values()].filter((r) => r.modele).length, morceaux: morceaux.length, particules: particules.length, cinema: !!cine, armes: MOD ? MOD.etatArmes : 'absent', tenues: [...survivants.values()].filter((x) => x.blaster).map((x) => x.armeId) }; }
+    function stats() { const i = renderer.info; return { ratio: renderer.getPixelRatio(), webgl: true, calls: i.render.calls, triangles: i.render.triangles, geometries: i.memory.geometries, qualite, derniere: derniereT, modeles: MOD ? MOD.etat : 'absent', horde: KZ ? 'kenney' : 'faite-main', boss: [...bossVus.values()].map((b) => b.type), survivant: [...survivants.values()].some((x) => x.modele) ? 'kenney' : 'fait-main', defenses: [...defs.values()].filter((r) => r.modele).length, morceaux: morceaux.length, particules: particules.length, cinema: !!cine, armes: MOD ? MOD.etatArmes : 'absent', tenues: [...survivants.values()].filter((x) => x.blaster).map((x) => x.armeId) }; }
     // les modèles 3D arrivent : la horde passe en Kenney, le survivant, les défenses et l'arène (ses voitures) sont refaits avec eux
     if (MOD) MOD.charger().then((ok) => {
       if (!ok) return;
